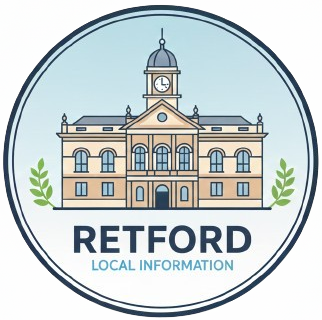
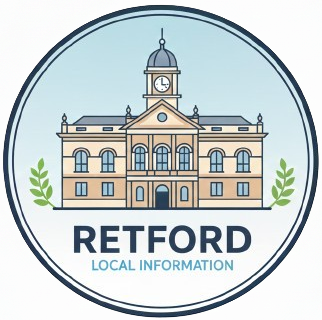
compressed images and more businesses

diff --git a/src/app/car-parks/page.tsx b/src/app/car-parks/page.tsx
@@ -1,7 +1,7 @@
 import ShareButtons from '@/components/ShareButtons';
 
 export const metadata = {
-  title: 'Car Parks - Retford, Nottinghamshire',
+  title: 'Car Parks in Retford - Retford, Nottinghamshire',
   description: 'Find parking information in Retford town centre.',
 };
 
@@ -74,7 +74,13 @@ export default function CarParks() {
         <h2 className="text-3xl font-bold mb-6">Parking in Retford</h2>
         <p className="text-lg text-gray-700 mb-12">
           Retford town centre has several convenient car parks with reasonable rates. 
-          Most parking is free or low-cost, making it easy to visit our local shops and attractions.
+          Most parking around the town centre is council operated but is low-cost, making it easy to visit our local shops and attractions.
+        </p>
+        <br></br>
+        <h3 className="text-3xl font-bold mb-6">Free Parking in Retford</h3>
+        <p className="text-lg text-gray-700 mb-12">
+          Around the town there are side streets with free parking and the major supermarkets around the town allow 2 hours free parking for customers.
+          Also most of the council car parks in Retford offer free parking after 6pm on weekdays and all day on Sundays. For quick visits to the town centre you can park in the Asda Overflow car park next to Kings Park for 2 hours free parking.
         </p>
 
         <div className="grid grid-cols-1 md:grid-cols-2 gap-6 mb-12">

diff --git a/src/app/categories/[slug]/[subcategory]/page.tsx b/src/app/categories/[slug]/[subcategory]/page.tsx
@@ -139,9 +139,7 @@ export default async function SubcategoryPage({ params }: { params: { slug: stri
           {subcategoryName.replace(/\b\w/g, (l: string) => l.toUpperCase())} in Retford
         </h2>
         <p className="text-lg leading-relaxed text-gray-700 max-w-3xl">
-          Explore our selection of {subcategoryName.toLowerCase()} in Retford. 
-          Find the perfect {subcategoryName.toLowerCase()} for your needs.
-        </p>
+          Explore our selection of {subcategoryName.toLowerCase()} in Retford, making it easier to find the right option for your needs. Whether you are comparing local businesses, looking for a trusted provider, or simply exploring what is available in the area, this page brings together a range of {subcategoryName.toLowerCase()} serving Retford and the surrounding areas, helping you make an informed choice based on your preferences and requirements.</p>
       </section>
 
       {/* Premium Listings */}

diff --git a/src/app/categories/[slug]/page.tsx b/src/app/categories/[slug]/page.tsx
@@ -104,8 +104,7 @@ export default async function CategoryPage({ params }: { params: { slug: string 
           {categoryName.replace(/\b\w/g, l => l.toUpperCase())} in Retford
         </h2>
         <p className="text-lg leading-relaxed text-gray-700 max-w-3xl">
-          Discover the best {categoryName.toLowerCase()} options in Retford. From local favourites to new
-          discoveries, find everything you need to make the most of your time in our vibrant community.
+          Discover a wide range of {params.slug === 'eat-and-drink' ? 'places to ' : ''}{categoryName.toLowerCase()} in Retford, from well-established local favourites to newer additions across the town. Explore what's available and find the places that help you make the most of your time in Retford.
         </p>
       </section>
 

diff --git a/compress_images.py b/compress_images.py
@@ -1,0 +1,207 @@
+"""
+Image Compression Script for Retford.info
+Compresses images in the /public directory while maintaining good quality.
+"""
+
+import os
+import json
+import hashlib
+from PIL import Image
+from pathlib import Path
+
+# Configuration
+PUBLIC_DIR = Path("public")
+CACHE_FILE = Path(".image_compression_cache.json")
+QUALITY = 85  # 85 is a good balance between quality and file size
+MAX_WIDTH = 1920  # Maximum width for images
+MAX_HEIGHT = 1920  # Maximum height for images
+SUPPORTED_FORMATS = {'.jpg', '.jpeg', '.png', '.webp'}
+
+def get_file_size_kb(filepath):
+    """Get file size in KB."""
+    return os.path.getsize(filepath) / 1024
+
+def get_file_hash(filepath):
+    """Get MD5 hash of file to detect changes."""
+    hash_md5 = hashlib.md5()
+    with open(filepath, "rb") as f:
+        for chunk in iter(lambda: f.read(4096), b""):
+            hash_md5.update(chunk)
+    return hash_md5.hexdigest()
+
+def load_cache():
+    """Load the compression cache."""
+    if CACHE_FILE.exists():
+        try:
+            with open(CACHE_FILE, 'r') as f:
+                return json.load(f)
+        except:
+            return {}
+    return {}
+
+def save_cache(cache):
+    """Save the compression cache."""
+    with open(CACHE_FILE, 'w') as f:
+        json.dump(cache, f, indent=2)
+
+def is_already_compressed(image_path, cache):
+    """Check if image has already been compressed."""
+    path_str = str(image_path)
+    if path_str not in cache:
+        return False
+    
+    # Check if file has been modified since compression
+    try:
+        current_hash = get_file_hash(image_path)
+        return cache[path_str].get('hash') == current_hash
+    except:
+        return False
+
+def compress_image(image_path):
+    """Compress a single image."""
+    original_size = get_file_size_kb(image_path)
+    
+    try:
+        with Image.open(image_path) as img:
+            # Store original format
+            original_format = img.format
+            
+            # Convert RGBA to RGB for JPEG
+            if image_path.suffix.lower() in ['.jpg', '.jpeg'] and img.mode in ('RGBA', 'LA', 'P'):
+                # Create a white background
+                background = Image.new('RGB', img.size, (255, 255, 255))
+                if img.mode == 'P':
+                    img = img.convert('RGBA')
+                background.paste(img, mask=img.split()[-1] if img.mode == 'RGBA' else None)
+                img = background
+            elif img.mode not in ('RGB', 'L'):
+                img = img.convert('RGB')
+            
+            # Resize if image is too large
+            if img.width > MAX_WIDTH or img.height > MAX_HEIGHT:
+                img.thumbnail((MAX_WIDTH, MAX_HEIGHT), Image.Resampling.LANCZOS)
+            
+            # Save with compression
+            if image_path.suffix.lower() in ['.jpg', '.jpeg']:
+                img.save(image_path, 'JPEG', quality=QUALITY, optimize=True)
+            elif image_path.suffix.lower() == '.png':
+                img.save(image_path, 'PNG', optimize=True)
+            elif image_path.suffix.lower() == '.webp':
+                img.save(image_path, 'WEBP', quality=QUALITY)
+        
+        new_size = get_file_size_kb(image_path)
+        reduction = original_size - new_size
+        reduction_percent = (reduction / original_size * 100) if original_size > 0 else 0
+        
+        return {
+            'success': True,
+            'original_size': original_size,
+            'new_size': new_size,
+            'reduction': reduction,
+            'reduction_percent': reduction_percent
+        }
+    
+    except Exception as e:
+        return {
+            'success': False,
+            'error': str(e)
+        }
+
+def main():
+    """Main function to process all images."""
+    if not PUBLIC_DIR.exists():
+        print(f"Error: {PUBLIC_DIR} directory not found!")
+        return
+    
+    print("🖼  Image Compression Tool for Retford.info")
+    print("=" * 60)
+    print(f"Quality setting: {QUALITY}%")
+    print(f"Max dimensions: {MAX_WIDTH}x{MAX_HEIGHT}px")
+    print("=" * 60)
+    print()
+    
+    # Load cache
+    cache = load_cache()
+    
+    # Find all images
+    image_files = []
+    for ext in SUPPORTED_FORMATS:
+        image_files.extend(PUBLIC_DIR.rglob(f"*{ext}"))
+    
+    if not image_files:
+        print("No images found in the public directory.")
+        return
+    
+    print(f"Found {len(image_files)} image(s) to process\n")
+    
+    total_original = 0
+    total_new = 0
+    processed_count = 0
+    skipped_count = 0
+    cached_count = 0
+    error_count = 0
+    
+    for image_path in image_files:
+        relative_path = image_path.relative_to(PUBLIC_DIR)
+        print(f"Processing: {relative_path}")
+        
+        # Check if already compressed
+        if is_already_compressed(image_path, cache):
+            print(f"  ✓ Already compressed (cached)\n")
+            cached_count += 1
+            continue
+        
+        original_size = get_file_size_kb(image_path)
+        
+        # Skip very small images (likely already optimized or icons)
+        if original_size < 10:
+            print(f"  ⏩ Skipped (too small: {original_size:.1f} KB)\n")
+            skipped_count += 1
+            continue
+        
+        result = compress_image(image_path)
+        
+        if result['success']:
+            # Add to cache
+            cache[str(image_path)] = {
+                'hash': get_file_hash(image_path),
+                'size': result['new_size']
+            }
+            
+            if result['reduction'] > 1:  # Only count if saved more than 1KB
+                print(f"  ✅ {result['original_size']:.1f} KB → {result['new_size']:.1f} KB")
+                print(f"  💾 Saved {result['reduction']:.1f} KB ({result['reduction_percent']:.1f}%)\n")
+                total_original += result['original_size']
+                total_new += result['new_size']
+                processed_count += 1
+            else:
+                print(f"  ✓ Already optimized ({result['new_size']:.1f} KB)\n")
+                skipped_count += 1
+        else:
+            print(f"  ❌ Error: {result['error']}\n")
+            error_count += 1
+    
+    # Save cache
+    save_cache(cache)
+    
+    # Summary
+    print("=" * 60)
+    print("📊 SUMMARY")
+    print("=" * 60)
+    print(f"Total images found: {len(image_files)}")
+    print(f"Compressed: {processed_count}")
+    print(f"Already compressed (cached): {cached_count}")
+    print(f"Skipped: {skipped_count}")
+    print(f"Errors: {error_count}")
+    
+    if processed_count > 0:
+        total_reduction = total_original - total_new
+        total_percent = (total_reduction / total_original * 100) if total_original > 0 else 0
+        print(f"\nTotal size before: {total_original:.1f} KB")
+        print(f"Total size after: {total_new:.1f} KB")
+        print(f"Total saved: {total_reduction:.1f} KB ({total_percent:.1f}%)")
+    
+    print("\n✨ Done!")
+
+if __name__ == "__main__":
+    main()
